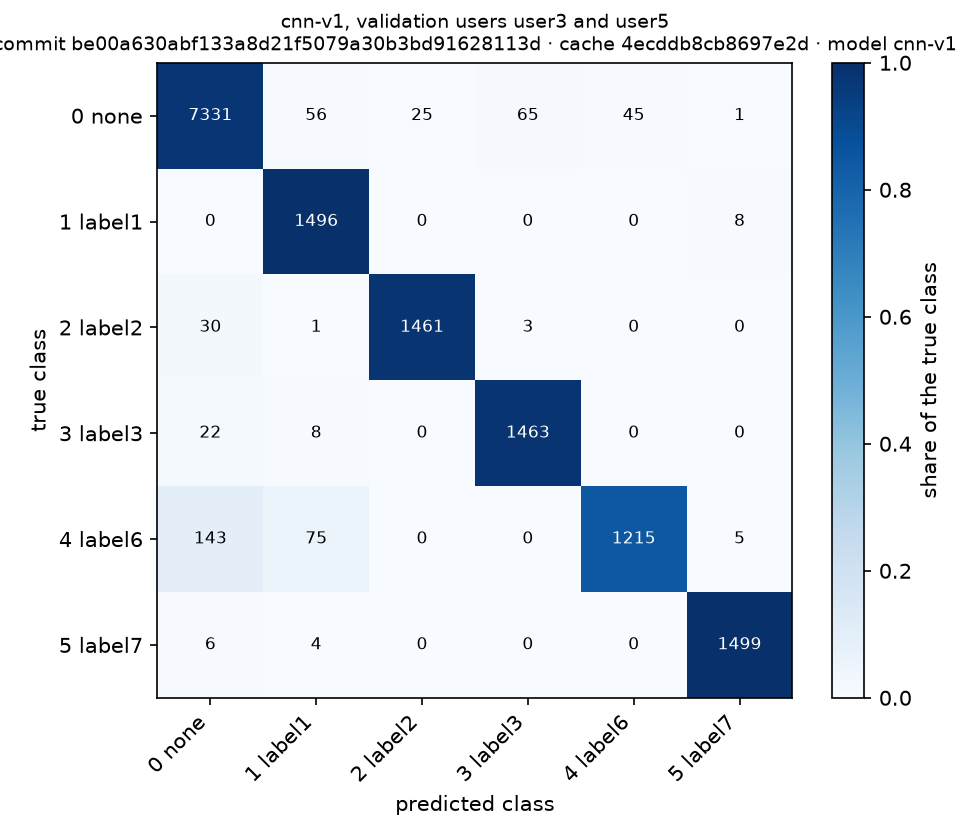
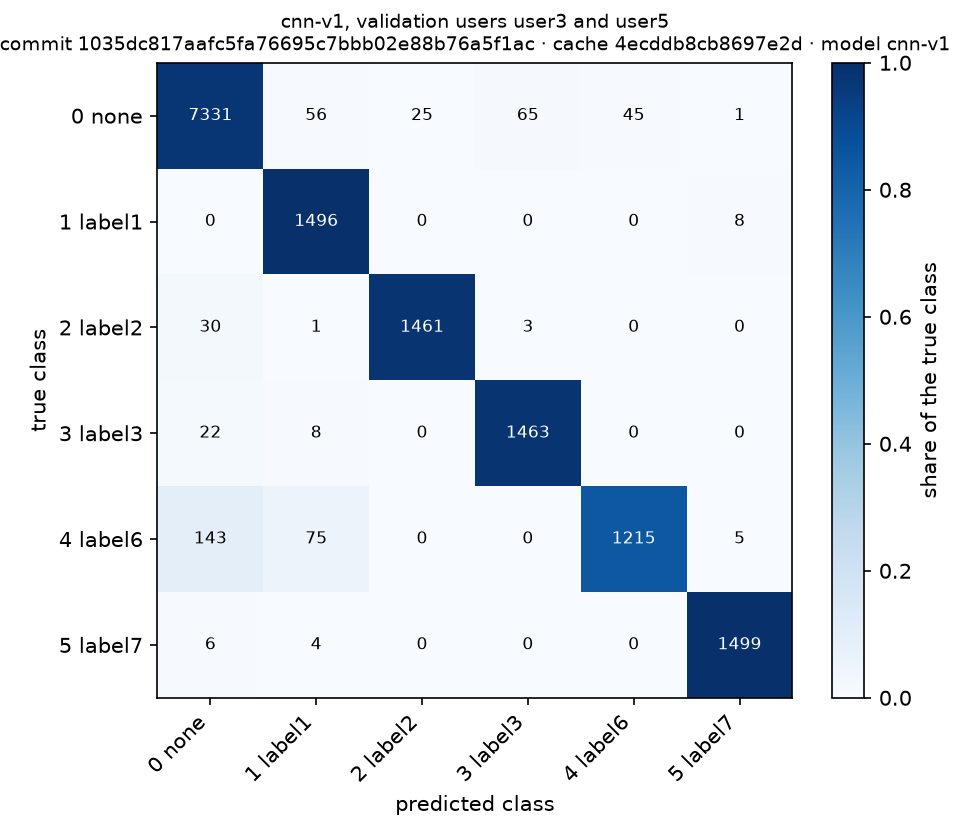
Re-run cnn-v1 at a clean commit: validation macro-F1 0.9610 reproduced (seed 0)

Changed region(s): [[0.0, 0.0303, 0.9846, 0.0606]]

diff --git a/training/results/cnn.md b/training/results/cnn.md
@@ -1,8 +1,8 @@
 # cnn-v1: per-frame CNN with a temporal head
 
-This report was produced at commit `be00a630abf133a8d21f5079a30b3bd91628113d` · cache `4ecddb8cb8697e2d` · model `cnn-v1`.
+This report was produced at commit `1035dc817aafc5fa76695c7bbb02e88b76a5f1ac` · cache `4ecddb8cb8697e2d` · model `cnn-v1`.
 
-The checkpoint is the best epoch (6) of a run trained at commit `11eb67351d5801936e4e9932fd4422ae7c80722c+dirty` on cache `4ecddb8cb8697e2d`, chosen by the macro-F1 on the validation users. It is evaluated on the nominal files of the validation users user3 and user5 only. Test users are never loaded.
+The checkpoint is the best epoch (6) of a run trained at commit `1035dc817aafc5fa76695c7bbb02e88b76a5f1ac` on cache `4ecddb8cb8697e2d`, chosen by the macro-F1 on the validation users. It is evaluated on the nominal files of the validation users user3 and user5 only. Test users are never loaded.
 
 ## Class map
 
@@ -10,12 +10,12 @@ The checkpoint is the best epoch (6) of a run trained at commit `11eb67351d58019
 
 ## cnn-v1
 
-These results were produced at commit `be00a630abf133a8d21f5079a30b3bd91628113d` · cache `4ecddb8cb8697e2d` · model `cnn-v1`.
+These results were produced at commit `1035dc817aafc5fa76695c7bbb02e88b76a5f1ac` · cache `4ecddb8cb8697e2d` · model `cnn-v1`.
 
 - overall accuracy: 0.9668
 - macro-F1 (classes present in val): 0.9610 (epoch 6, chosen on the validation users)
 
-Per-class recall (commit `be00a630abf133a8d21f5079a30b3bd91628113d` · cache `4ecddb8cb8697e2d` · model `cnn-v1`):
+Per-class recall (commit `1035dc817aafc5fa76695c7bbb02e88b76a5f1ac` · cache `4ecddb8cb8697e2d` · model `cnn-v1`):
 
 | class | recall | val windows |
 |---|---|---|
@@ -26,7 +26,7 @@ Per-class recall (commit `be00a630abf133a8d21f5079a30b3bd91628113d` · cache `4e
 | 4 label6 | 0.8449 | 1438 |
 | 5 label7 | 0.9934 | 1509 |
 
-Confusion matrix with the true class in the rows and the predicted class in the columns (commit `be00a630abf133a8d21f5079a30b3bd91628113d` · cache `4ecddb8cb8697e2d` · model `cnn-v1`):
+Confusion matrix with the true class in the rows and the predicted class in the columns (commit `1035dc817aafc5fa76695c7bbb02e88b76a5f1ac` · cache `4ecddb8cb8697e2d` · model `cnn-v1`):
 
 | true \ pred | 0 none | 1 label1 | 2 label2 | 3 label3 | 4 label6 | 5 label7 |
 |---|---|---|---|---|---|---|
@@ -39,7 +39,7 @@ Confusion matrix with the true class in the rows and the predicted class in the 
 
 The matrix is also saved as `training/figures/cnn_confusion.png`.
 
-Accuracy for each validation user (commit `be00a630abf133a8d21f5079a30b3bd91628113d` · cache `4ecddb8cb8697e2d` · model `cnn-v1`):
+Accuracy for each validation user (commit `1035dc817aafc5fa76695c7bbb02e88b76a5f1ac` · cache `4ecddb8cb8697e2d` · model `cnn-v1`):
 
 | user | accuracy | windows |
 |---|---|---|
@@ -48,7 +48,7 @@ Accuracy for each validation user (commit `be00a630abf133a8d21f5079a30b3bd916281
 
 ## Training history
 
-The validation macro-F1 of every epoch of the training run (commit `11eb67351d5801936e4e9932fd4422ae7c80722c+dirty` · cache `4ecddb8cb8697e2d` · model `cnn-v1`). Epoch 6 was chosen because it has the highest macro-F1 on the validation users, which are also the users this report is computed on. The number at the chosen epoch is therefore the best of a noisy sequence and is optimistic.
+The validation macro-F1 of every epoch of the training run (commit `cc86f514f3fc4860b16c4cefe8fc8c45fb45ef03` · cache `4ecddb8cb8697e2d` · model `cnn-v1`). Epoch 6 was chosen because it has the highest macro-F1 on the validation users, which are also the users this report is computed on. The number at the chosen epoch is therefore the best of a noisy sequence and is optimistic.
 
 | epoch | train loss | val loss | val macro-F1 | val accuracy |
 |---|---|---|---|---|
@@ -72,11 +72,11 @@ All three models are evaluated on the same validation windows. Each row carries 
 
 | model | accuracy | macro-F1 | user3 | user5 | stamp |
 |---|---|---|---|---|---|
-| cnn-v1 | 0.9668 | 0.9610 | 0.9408 | 0.9906 | commit `be00a630abf133a8d21f5079a30b3bd91628113d` · cache `4ecddb8cb8697e2d` · model `cnn-v1` |
+| cnn-v1 | 0.9668 | 0.9610 | 0.9408 | 0.9906 | commit `1035dc817aafc5fa76695c7bbb02e88b76a5f1ac` · cache `4ecddb8cb8697e2d` · model `cnn-v1` |
 | baseline-lr-v1 | 0.9101 | 0.8937 | 0.8903 | 0.9283 | commit `3bec92ffb66af1d554748b3ffc0018242685e56e` · cache `4ecddb8cb8697e2d` · model `baseline-lr-v1` |
 | baseline-rf-v1 | 0.8765 | 0.8439 | 0.7786 | 0.9664 | commit `3bec92ffb66af1d554748b3ffc0018242685e56e` · cache `4ecddb8cb8697e2d` · model `baseline-rf-v1` |
 
-Per-class recall (commit `be00a630abf133a8d21f5079a30b3bd91628113d` · cache `4ecddb8cb8697e2d` · model `cnn-v1`):
+Per-class recall (commit `1035dc817aafc5fa76695c7bbb02e88b76a5f1ac` · cache `4ecddb8cb8697e2d` · model `cnn-v1`):
 
 | class | cnn-v1 | baseline-lr-v1 | baseline-rf-v1 |
 |---|---|---|---|
@@ -95,7 +95,7 @@ cnn-v1 minus baseline-rf-v1 in macro-F1: +0.1171.
 
 The margin of a window is the number of frames it could slide towards the edge of its rule before the label rule of `window_class_at` changes its class. For a gesture window it is the smaller free space around the extended span. For a no-gesture window it is the number of frames it could move towards the gesture and stay 10 frames away. A window is near the edge when its margin is below 3 frames, which is the largest shift used in training. The macro-F1 of a group averages over the classes that occur in that group, with the predictions of the whole model.
 
-Windows by group and class (commit `be00a630abf133a8d21f5079a30b3bd91628113d` · cache `4ecddb8cb8697e2d` · model `cnn-v1`):
+Windows by group and class (commit `1035dc817aafc5fa76695c7bbb02e88b76a5f1ac` · cache `4ecddb8cb8697e2d` · model `cnn-v1`):
 
 | group | windows | accuracy | macro-F1 | 0 none | 1 label1 | 2 label2 | 3 label3 | 4 label6 | 5 label7 |
 |---|---|---|---|---|---|---|---|---|---|
